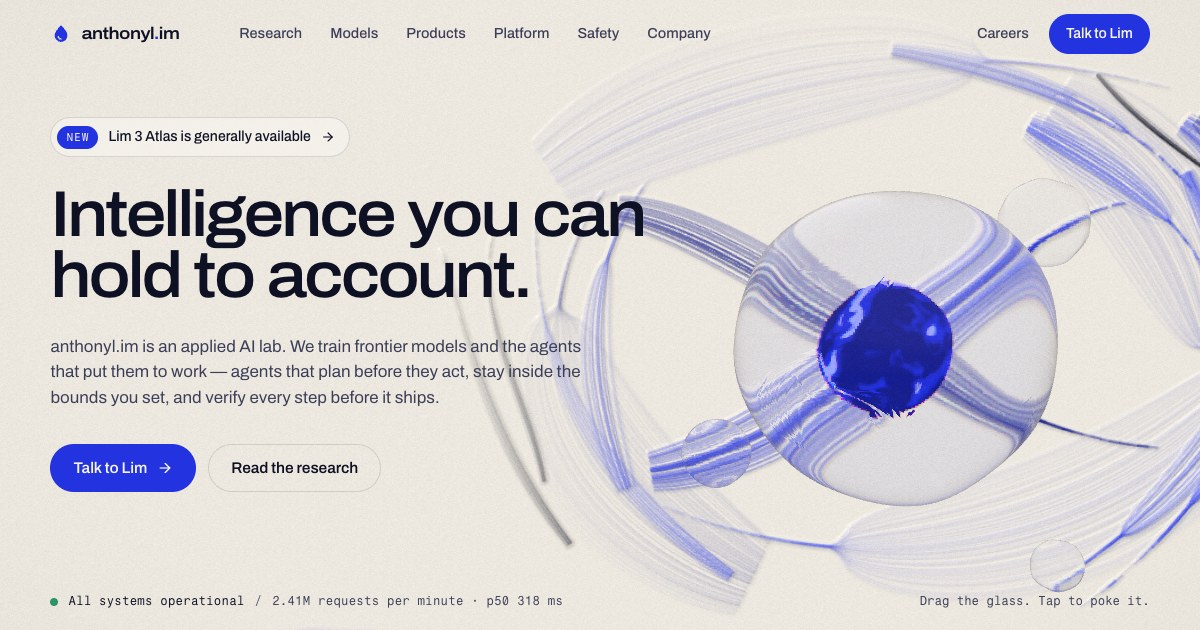
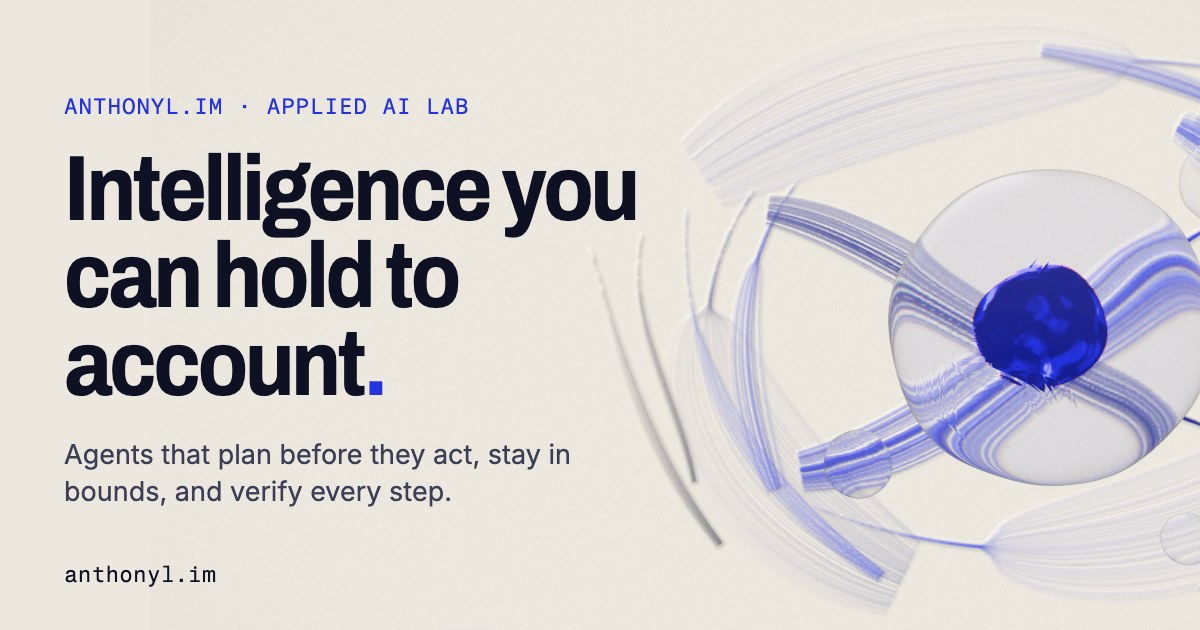
Site: per-app link previews with real preview cards (#552)
- New 1200×630 cards for every app (landing, Lim, BreathFlow, Trips, Korea),
  each the app's own 3D scene with its title, replacing Unsplash stock.
- Titles/descriptions rewritten per app; BreathFlow inner pages and trip
  pages get their own tab titles. og:image width/height/type added.
- Fix: "/" was served by serveStatic as raw index.html, so the landing page
  previewed as the chatbot and skipped the no-cache header.

🤖 Generated with [Claude Code](https://claude.com/claude-code)

diff --git a/server/app.ts b/server/app.ts
@@ -1,4 +1,4 @@
-import { Hono } from "hono";
+import { Hono, type Context } from "hono";
 import { logger } from "hono/logger";
 import { serveStatic } from "hono/bun";
 import { cors } from "hono/cors";
@@ -31,45 +31,47 @@ type AppPreviewMeta = {
   imageAlt: string;
 };
 
+// Preview cards are 1200×630 JPEGs in frontend/public, each the app's own
+// scene with its title. Bump OG_VERSION when a card changes so social caches
+// fetch the new one.
+const OG_VERSION = "2";
+const card = (name: string) => `/og-${name}.jpg?v=${OG_VERSION}`;
+
 const appPreviews = {
   landing: {
     title: "anthonyl.im — Applied intelligence lab",
     description:
       "Frontier models and the agents that put them to work — they plan before they act, stay inside the bounds you set, and verify every step.",
-    imagePathOrUrl: "/og-landing.jpg",
-    imageAlt: "A soft glass droplet floating over ultramarine brush strokes on bone paper",
+    imagePathOrUrl: card("landing"),
+    imageAlt: "“Intelligence you can hold to account.” beside a glass droplet in ultramarine brush strokes",
   },
   chatbot: {
-    title: "Anthony Lim AI Chatbot",
+    title: "Lim — Ask Anthony Lim's AI",
     description:
-      "Chat with Anthony's AI assistant to explore his experience, projects, and technical background.",
-    imagePathOrUrl:
-      "https://images.unsplash.com/photo-1518770660439-4636190af475?auto=format&fit=crop&w=1200&h=630&q=80",
-    imageAlt: "Futuristic AI interface with glowing code and circuitry visuals",
+      "Meet Lim, a squishy jelly who answers for Anthony Lim. Ask about his work, projects, and engineering background.",
+    imagePathOrUrl: card("chatbot"),
+    imageAlt: "Lim, a glossy coral jelly with big eyes, sitting on a mint rug beside jelly beans",
   },
   breathwork: {
-    title: "BreathFlow",
+    title: "BreathFlow — Guided breathing with a watercolour cat",
     description:
-      "Timed breathing protocols with published research.",
-    imagePathOrUrl:
-      "https://images.unsplash.com/photo-1506126613408-eca07ce68773?auto=format&fit=crop&w=1200&h=630&q=80",
-    imageAlt: "Person meditating at sunrise with calm natural tones",
+      "Research-backed breathing — box breathing, cyclic sighing, 4-7-8, resonance and more — paced by a hand-painted cat that breathes with you.",
+    imagePathOrUrl: card("breathwork"),
+    imageAlt: "A violet watercolour cat sitting in splashes of paint beside the BreathFlow wordmark",
   },
   korea: {
-    title: "South Korea Itinerary — Seoul + Busan, May 26 – Jun 6, 2026",
+    title: "Seoul + Busan — Korea 2026 trip dossier",
     description:
-      "A 12-day Seoul + Busan trip — palaces, hanwoo, fine dining, Sky Capsule, a wedding in Yangju, and a drone show over the Han River.",
-    imagePathOrUrl:
-      "https://images.unsplash.com/photo-1538485399081-7c8970ce9eef?auto=format&fit=crop&w=1200&h=630&q=80",
-    imageAlt: "Seoul cityscape at twilight with Lotte World Tower and the Han River",
+      "A 12-day Seoul + Busan trip (May 26 – Jun 6, 2026): reservations, neighbourhoods, the places worth a detour, and a 3D Map Mode.",
+    imagePathOrUrl: card("korea"),
+    imageAlt: "A toy clay planet covered in trees and colourful place pins on a pink cover",
   },
   trips: {
-    title: "Trips — itinerary workspace",
+    title: "Trips — plan a trip, pin by pin",
     description:
-      "A private itinerary workspace for days, reservations, and photorealistic Map Mode.",
-    imagePathOrUrl:
-      "https://images.unsplash.com/photo-1538485399081-7c8970ce9eef?auto=format&fit=crop&w=1200&h=630&q=80",
-    imageAlt: "City itinerary at twilight",
+      "Plan trips with AI, save places from Instagram posts, ask the concierge, and explore every day in 3D Map Mode.",
+    imagePathOrUrl: card("trips"),
+    imageAlt: "A squishy toy globe with a trip pin and a paper plane, under puffy clouds",
   },
 } as const satisfies Record<string, AppPreviewMeta>;
 
@@ -86,8 +88,18 @@ const resolveImageUrl = (imagePathOrUrl: string): string =>
     ? imagePathOrUrl
     : `${siteUrl}${imagePathOrUrl.startsWith("/") ? imagePathOrUrl : `/${imagePathOrUrl}`}`;
 
+/** BreathFlow's pages share a card; each gets its own title. */
+const breathworkPages: Record<string, string> = {
+  "/breathwork/session": "Breathe",
+  "/breathwork/progress": "Progress",
+  "/breathwork/settings": "Settings",
+};
+
 const getPreviewMetaForPath = (pathname: string): AppPreviewMeta => {
-  if (pathname.startsWith("/breathwork")) return appPreviews.breathwork;
+  if (pathname.startsWith("/breathwork")) {
+    const page = breathworkPages[pathname.replace(/\/+$/, "")];
+    return page ? { ...appPreviews.breathwork, title: `${page} · BreathFlow` } : appPreviews.breathwork;
+  }
   if (pathname.startsWith("/korea") || pathname.startsWith("/trips/korea-2026")) return appPreviews.korea;
   if (pathname.startsWith("/trips")) return appPreviews.trips;
   if (pathname === "/" || pathname === "") return appPreviews.landing;
@@ -116,6 +128,9 @@ const injectPreviewMeta = (html: string, pathname: string): string => {
     <meta property="og:description" content="${escapeHtml(preview.description)}" />
     <meta property="og:url" content="${escapeHtml(pageUrl)}" />
     <meta property="og:image" content="${escapeHtml(imageUrl)}" />
+    <meta property="og:image:type" content="image/jpeg" />
+    <meta property="og:image:width" content="1200" />
+    <meta property="og:image:height" content="630" />
     <meta property="og:image:alt" content="${escapeHtml(preview.imageAlt)}" />
     <meta name="twitter:card" content="summary_large_image" />
     <meta name="twitter:title" content="${escapeHtml(preview.title)}" />
@@ -340,6 +355,20 @@ app.use(
     },
   }),
 );
+// The SPA shell, with per-route title / description / preview card. The HTML
+// itself must never be long-cached — it references hashed asset filenames that
+// change on every build, so a stale index.html would point at deleted bundles.
+const spaShell = async (c: Context) => {
+  const baseHtml = await Bun.file(join(distPath, "index.html")).text();
+  const withMeta = injectPreviewMeta(baseHtml, c.req.path);
+  c.header("Cache-Control", "no-cache, no-store, must-revalidate");
+  c.header("Pragma", "no-cache");
+  c.header("Expires", "0");
+  return c.html(withMeta);
+};
+// Registered ahead of serveStatic, which would otherwise answer "/" with the
+// raw dist/index.html (no landing metadata, no no-cache headers).
+app.get("/", spaShell);
 app.use("*", serveStatic({ root: distPath }));
 
 // Legacy Korea dossier URLs fold into the seeded trip.
@@ -350,17 +379,8 @@ app.get("/korea/ingest", (c) => c.redirect("/trips/korea-2026?ingest=1", 301));
 app.get("/korea/day/:slug", (c) => c.redirect(`/trips/korea-2026/day/${c.req.param("slug")}`, 301));
 app.get("/korea/*", (c) => c.redirect("/trips/korea-2026", 301));
 
-// Serve index.html for all other routes (SPA fallback). The HTML itself must
-// never be long-cached — it references hashed asset filenames that change on
-// every build, so a stale index.html would point at deleted bundles.
-app.get("*", async (c) => {
-  const baseHtml = await Bun.file(join(distPath, "index.html")).text();
-  const withMeta = injectPreviewMeta(baseHtml, c.req.path);
-  c.header("Cache-Control", "no-cache, no-store, must-revalidate");
-  c.header("Pragma", "no-cache");
-  c.header("Expires", "0");
-  return c.html(withMeta);
-});
+// Serve index.html for all other routes (SPA fallback).
+app.get("*", spaShell);
 
 // Bun auto-serves this default export when the entry is `server/app.ts`.
 // Attach idleTimeout so that path keeps SSE alive the same way `index.ts` does.

diff --git a/frontend/index.html b/frontend/index.html
@@ -17,10 +17,10 @@
          identity (not chatbot or BreathFlow). -->
     <meta name="apple-mobile-web-app-title" content="Korea Trip" />
     <meta name="application-name" content="Korea Trip" />
-    <meta name="description" content="Anthony Lim - Software Engineer. Ask me anything about my experience, skills, and background." />
+    <meta name="description" content="Meet Lim, a squishy jelly who answers for Anthony Lim. Ask about his work, projects, and engineering background." />
     <meta property="og:site_name" content="Anthony Lim" />
     <meta property="og:type" content="website" />
-    <meta name="twitter:card" content="summary" />
+    <meta name="twitter:card" content="summary_large_image" />
 
     <link rel="icon" type="image/svg+xml" href="/favicon-chat.svg" />
     <!-- iOS reads the manifest synchronously at page load. The default
@@ -33,7 +33,7 @@
     <link rel="preconnect" href="https://fonts.gstatic.com" crossorigin />
     <link href="https://fonts.googleapis.com/css2?family=Archivo+Narrow:ital,wght@0,400;0,500;0,600;0,700;1,400&family=Archivo:wdth,wght@62..125,100..900&family=Bricolage+Grotesque:opsz,wdth,wght@12..96,75..100,200..800&family=Cormorant+Garamond:ital,wght@0,300;0,400;0,500;0,600;0,700;1,300;1,400&family=Fragment+Mono:ital@0;1&family=Fraunces:ital,opsz,wght,SOFT,WONK@0,9..144,100..900,0..100,0..1;1,9..144,100..900,0..100,0..1&family=Fredoka:wdth,wght@75..125,300..700&family=Geist:wght@400;500;600&family=Inter:wght@400;500;600&display=swap" rel="stylesheet" />
 
-    <title>Anthony Lim - Software Engineer</title>
+    <title>Lim — Ask Anthony Lim's AI</title>
 
     <script data-route-metadata="breathflow">
       (() => {
@@ -41,8 +41,8 @@
         const assetBase = (location.pathname.match(/^\/preview\/pr\/\d+/) || [''])[0];
         if (!appPath.startsWith('/breathwork')) return;
 
-        const title = 'BreathFlow';
-        const description = 'Timed breathing protocols with published research.';
+        const title = 'BreathFlow — Guided breathing with a watercolour cat';
+        const description = 'Research-backed breathing, paced by a hand-painted cat that breathes with you.';
 
         function setRouteMeta(selector, attribute, value, content) {
           let element = document.querySelector(selector);
@@ -76,8 +76,8 @@
         const assetBase = (location.pathname.match(/^\/preview\/pr\/\d+/) || [''])[0];
         if (!appPath.startsWith('/korea') && !appPath.startsWith('/trips/korea-2026') && !appPath.startsWith('/trips')) return;
         if (appPath.startsWith('/trips') && !appPath.startsWith('/trips/korea-2026')) {
-          const title = 'Trips';
-          const description = 'A private itinerary workspace for days, reservations, and Map Mode.';
+          const title = 'Trips — plan a trip, pin by pin';
+          const description = 'Plan trips with AI, save places from Instagram posts, ask the concierge, and explore every day in 3D Map Mode.';
           function setRouteMeta(selector, attribute, value, content) {
             let element = document.querySelector(selector);
             if (!element) {
@@ -100,8 +100,8 @@
           return;
         }
 
-        const title = 'South Korea Itinerary — Seoul + Busan';
-        const description = 'A 12-day Seoul + Busan trip with reservations, weather, smart links, and a 3D Map Mode that puts you at the center.';
+        const title = 'Seoul + Busan — Korea 2026 trip dossier';
+        const description = 'A 12-day Seoul + Busan trip (May 26 – Jun 6, 2026): reservations, neighbourhoods, the places worth a detour, and a 3D Map Mode.';
 
         function setRouteMeta(selector, attribute, value, content) {
           let element = document.querySelector(selector);

diff --git a/frontend/src/lib/routeMetadata.ts b/frontend/src/lib/routeMetadata.ts
@@ -1,20 +1,32 @@
 export const DEFAULT_ROUTE_METADATA = {
-  title: 'Anthony Lim - Software Engineer',
-  description: 'Anthony Lim - Software Engineer. Ask me anything about my experience, skills, and background.',
+  title: "Lim — Ask Anthony Lim's AI",
+  description: 'Meet Lim, a squishy jelly who answers for Anthony Lim. Ask about his work, projects, and engineering background.',
   favicon: '/favicon-chat.svg',
 } as const
 
 export const LANDING_ROUTE_METADATA = {
   title: 'anthonyl.im — Applied intelligence lab',
-  description: 'Frontier models and agents that plan, act within bounds, and verify their own work.',
+  description: 'Frontier models and the agents that put them to work — they plan before they act, stay inside the bounds you set, and verify every step.',
   favicon: '/favicon-lim.svg',
 } as const
 
 export const BREATHFLOW_ROUTE_METADATA = {
-  title: 'BreathFlow',
-  description: 'Timed breathing protocols with published research.',
+  title: 'BreathFlow — Guided breathing with a watercolour cat',
+  description: 'Research-backed breathing, paced by a hand-painted cat that breathes with you.',
   favicon: '/favicon-breath.svg',
 } as const
+
+/** Tab titles for BreathFlow's inner pages (Home keeps the full title). */
+const BREATHFLOW_PAGES: Record<string, string> = {
+  '/breathwork/session': 'Breathe',
+  '/breathwork/progress': 'Progress',
+  '/breathwork/settings': 'Settings',
+}
+
+export function breathflowTitle(pathname: string) {
+  const page = BREATHFLOW_PAGES[pathname.replace(/\/+$/, '')]
+  return page ? `${page} · BreathFlow` : BREATHFLOW_ROUTE_METADATA.title
+}
 
 export function getRouteMetadata(pathname: string) {
   const appPath = pathname.replace(/^\/preview\/pr\/\d+(?=\/|$)/, "") || "/"

diff --git a/server/src/previewMeta.test.ts b/server/src/previewMeta.test.ts
@@ -1,0 +1,31 @@
+import { test, expect } from 'bun:test';
+import { existsSync } from 'fs';
+import { resolve } from 'path';
+
+// Link previews: every app's shell carries its own title + 1200×630 card.
+// "/" regressed once because serveStatic answered it with the raw
+// dist/index.html. Needs a built frontend (skipped when dist is absent).
+const built = existsSync(resolve(import.meta.dir, '../../frontend/dist/index.html'));
+
+test.skipIf(!built)('each app shell gets its own preview metadata', async () => {
+  process.env.KLUSTER_API_KEY ||= 'load-test-stub';
+  process.env.KLUSTER_API_BASE_URL ||= 'https://example.invalid';
+  process.env.IG_WORKER_ENABLED ||= 'false';
+  const app = (await import('../app')).default;
+  const cases: [string, string, string][] = [
+    ['/', 'anthonyl.im — Applied intelligence lab', 'og-landing'],
+    ['/chatbot', 'Lim — Ask Anthony Lim&#39;s AI', 'og-chatbot'],
+    ['/breathwork', 'BreathFlow — Guided breathing with a watercolour cat', 'og-breathwork'],
+    ['/breathwork/progress', 'Progress · BreathFlow', 'og-breathwork'],
+    ['/trips', 'Trips — plan a trip, pin by pin', 'og-trips'],
+    ['/trips/korea-2026/day/1', 'Seoul + Busan — Korea 2026 trip dossier', 'og-korea'],
+  ];
+  for (const [path, title, card] of cases) {
+    const res = await app.fetch(new Request(`http://localhost${path}`));
+    const html = await res.text();
+    expect(res.headers.get('cache-control')).toContain('no-store');
+    expect(html).toContain(`<title>${title}</title>`);
+    expect(html).toContain(`/${card}.jpg?v=`);
+    expect(html.match(/<title>/g)?.length).toBe(1);
+  }
+});

diff --git a/frontend/src/breathflow/pages/BreathflowLayout.tsx b/frontend/src/breathflow/pages/BreathflowLayout.tsx
@@ -4,7 +4,7 @@ import { NavLink, useLocation, useOutlet } from 'react-router-dom'
 import { CLERK_ENABLED } from '@/lib/clerk'
 import { useDocumentMetadata } from '@/hooks/useDocumentMetadata'
 import { useFavicon } from '@/hooks/useFavicon'
-import { BREATHFLOW_ROUTE_METADATA } from '@/lib/routeMetadata'
+import { BREATHFLOW_ROUTE_METADATA, breathflowTitle } from '@/lib/routeMetadata'
 import { sx } from '@/styles/merge'
 import { WatercolorDefs } from '../components/WatercolorDefs'
 import { SelectionInk } from '../motion/SelectionInk'
@@ -33,7 +33,7 @@ export function BreathflowLayout() {
   useBreathflowTheme()
   useFavicon()
   useDocumentMetadata({
-    title: BREATHFLOW_ROUTE_METADATA.title,
+    title: breathflowTitle(location.pathname),
     description: BREATHFLOW_ROUTE_METADATA.description,
   })
 

diff --git a/frontend/src/pages/Trips/TripDayPage.tsx b/frontend/src/pages/Trips/TripDayPage.tsx
@@ -1,3 +1,4 @@
+import { useTabTitle } from "@/hooks/useTabTitle"
 import { sx } from '@/lib/utils'
 import { styles } from './trips.stylex'
 import { day as dy } from './toy.stylex'
@@ -110,6 +111,7 @@ export function TripDayPage() {
   const prev = trip && dayIndex > 0 ? trip.days[dayIndex - 1] : undefined
   const next = trip && dayIndex >= 0 && dayIndex < trip.days.length - 1 ? trip.days[dayIndex + 1] : undefined
   const tripPath = trip ? `/trips/${trip.slug ?? trip.id}` : ""
+  useTabTitle(trip && day ? `Day ${dayIndex + 1}${day.title ? ` · ${day.title}` : ""} · ${trip.name}` : null)
 
   useEffect(() => {
     const mapRequested = searchParams.get("map") === "1"

diff --git a/frontend/src/pages/Trips/TripPlaces.tsx b/frontend/src/pages/Trips/TripPlaces.tsx
@@ -1,3 +1,4 @@
+import { useTabTitle } from "@/hooks/useTabTitle"
 import { Link, useParams } from "react-router-dom"
 import { useGetToken } from "@/lib/safeAuth"
 import { Places } from "../Korea/Places"
@@ -12,6 +13,7 @@ export function TripPlaces() {
   const { tripId } = useParams<{ tripId: string }>()
   const getToken = useGetToken()
   const { state, reload } = useLoadedTrip(tripId, getToken)
+  useTabTitle(state.status === "success" ? `Places · ${state.trip.name}` : null)
 
   if (state.status === "loading") {
     return (

diff --git a/frontend/src/pages/Trips/TripOverview.tsx b/frontend/src/pages/Trips/TripOverview.tsx
@@ -1,3 +1,4 @@
+import { useTabTitle } from "@/hooks/useTabTitle"
 import { styles } from './trips.stylex'
 import { overview as ov } from './toy.stylex'
 import { sx } from '@/lib/utils'
@@ -64,6 +65,7 @@ export function TripOverview() {
   const reduce = useReducedMotion()
   const [searchParams] = useSearchParams()
   const openIngest = searchParams.get("ingest") === "1"
+  useTabTitle(editor.trip ? `${editor.trip.name} · Trips` : null)
 
   if (editor.state.status === "loading") {
     return (

diff --git a/frontend/src/pages/Trips/TripCreate.tsx b/frontend/src/pages/Trips/TripCreate.tsx
@@ -1,3 +1,4 @@
+import { useTabTitle } from "@/hooks/useTabTitle"
 import { sx } from '@/lib/utils'
 import { styles } from './trips.stylex'
 import { pack as pk } from './toy.stylex'
@@ -107,6 +108,7 @@ function parseList(raw: string): string[] {
 }
 
 export function TripCreate() {
+  useTabTitle("New trip · Trips")
   const getToken = useGetToken()
   const readToken = useLatestCallback(getToken)
   const navigate = useNavigate()

diff --git a/frontend/src/hooks/useTabTitle.ts b/frontend/src/hooks/useTabTitle.ts
@@ -1,0 +1,13 @@
+import { useEffect } from 'react'
+
+/** Sets the tab title while mounted (no-op until `title` is known), then restores it. */
+export function useTabTitle(title: string | null | undefined) {
+  useEffect(() => {
+    if (!title) return
+    const previous = document.title
+    document.title = title
+    return () => {
+      document.title = previous
+    }
+  }, [title])
+}

diff --git a/CLAUDE.md b/CLAUDE.md
@@ -255,7 +255,7 @@ Two regressions surfaced in May 2026 that the verify gate now catches:
 
 ## Routing
 
-Routes are lazy-loaded inside `Guarded` (`RouteErrorBoundary` + `Suspense`). All five apps share `index.html`; the server injects per-route OG tags / favicon / manifest. Basename comes from `lib/routerBasename.ts` (PR preview support).
+Routes are lazy-loaded inside `Guarded` (`RouteErrorBoundary` + `Suspense`). All five apps share `index.html`; the server injects per-route OG tags / favicon / manifest. Link previews: `appPreviews` in `server/app.ts` (title, description, 1200×630 card `frontend/public/og-<app>.jpg`; bump `OG_VERSION` when a card changes). Keep `index.html`'s bootstrap scripts and `lib/routeMetadata.ts` in sync with it. `/` must stay routed to the SPA shell ahead of `serveStatic` (`server/src/previewMeta.test.ts`). Basename comes from `lib/routerBasename.ts` (PR preview support).
 
 | Path | App | Auth |
 |------|-----|------|
